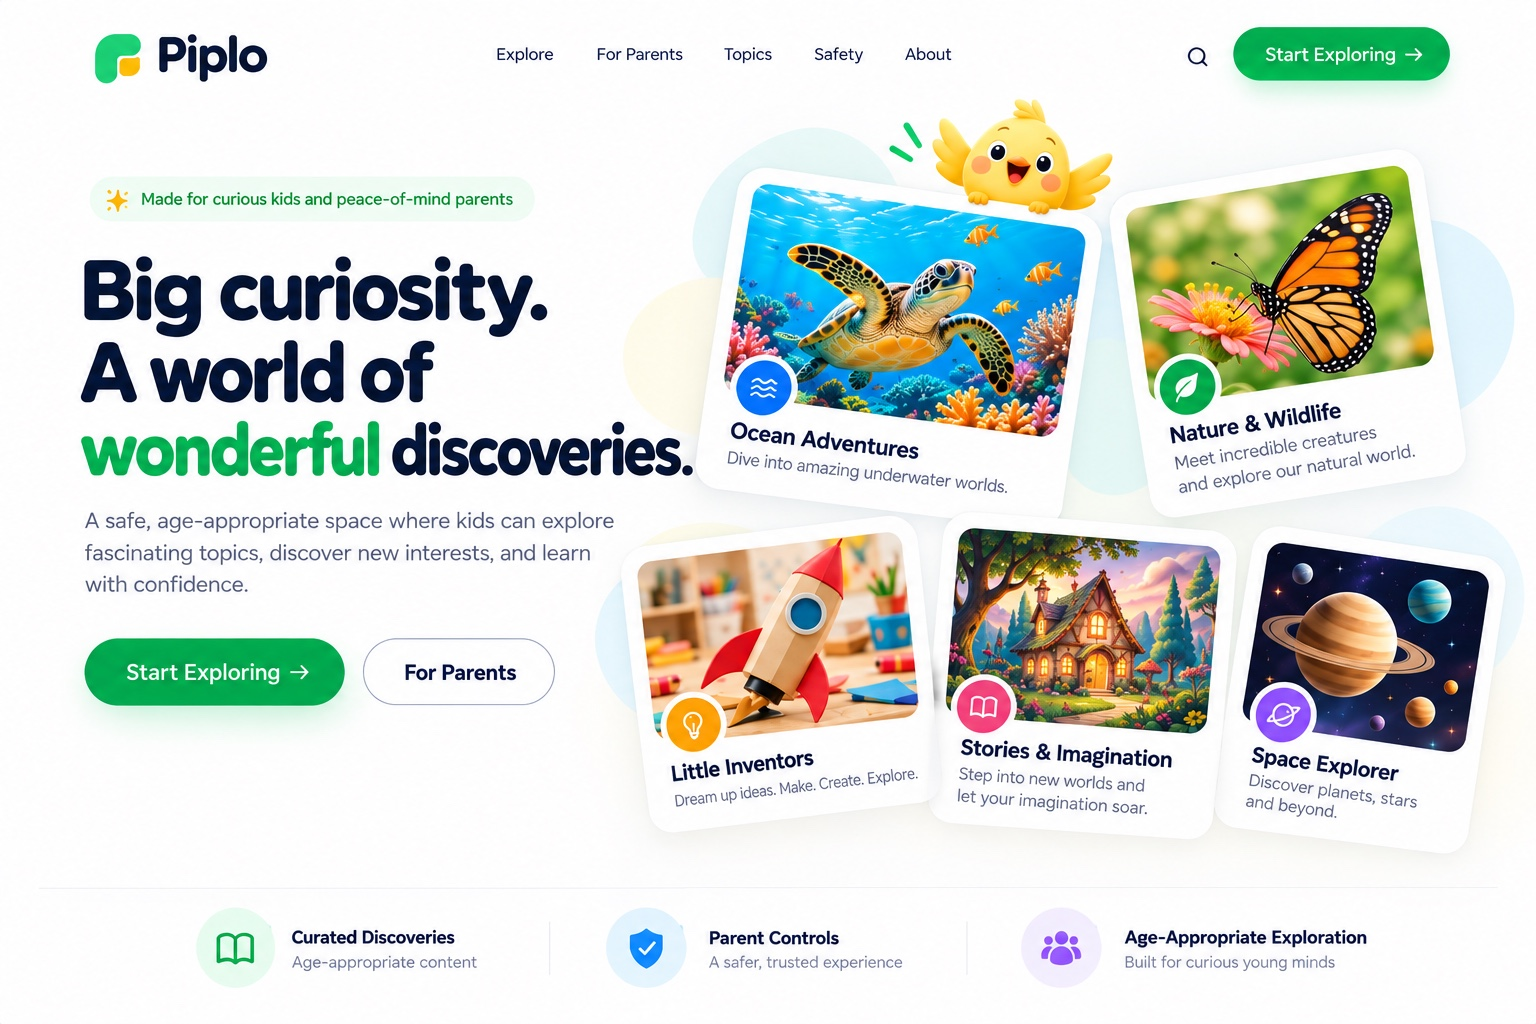
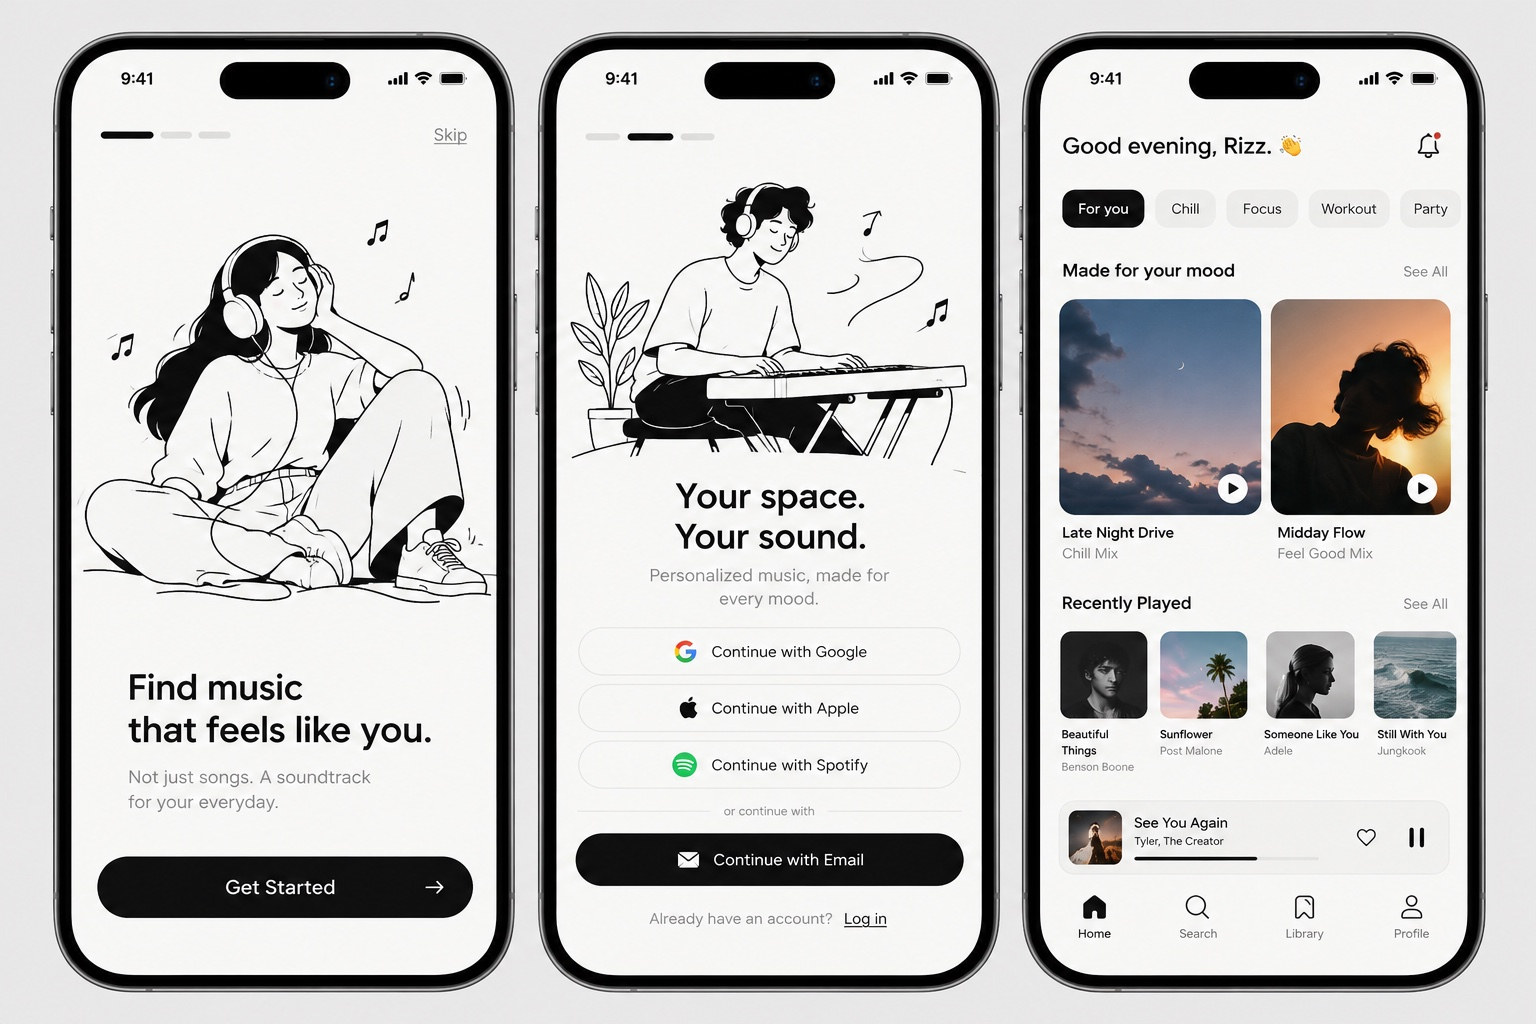
Replace Piplo work project with music app

diff --git a/src/content/works.ts b/src/content/works.ts
@@ -31,7 +31,7 @@ export const works: Work[] = [
   site("acre", "Wayo", "Travel discovery mobile app", 1.5),
   site("discovery", "Orion", "AI sales platform landing", 1.5),
   site("rexai", "RexAI", "AI onboarding interface", 1.592),
-  site("daily-brief", "Piplo", "Kids discovery platform landing", 1.5),
+  site("daily-brief", "Sway", "Personalized music mobile app", 1.5),
   site("account-flow", "Nodi Pro", "AI mobile app landing", 1.333),
   site("flowship", "Kintra", "Team collaboration workspace", 1.333),
   site("freight", "Soundkin", "Audio production studio website", 1.333),
